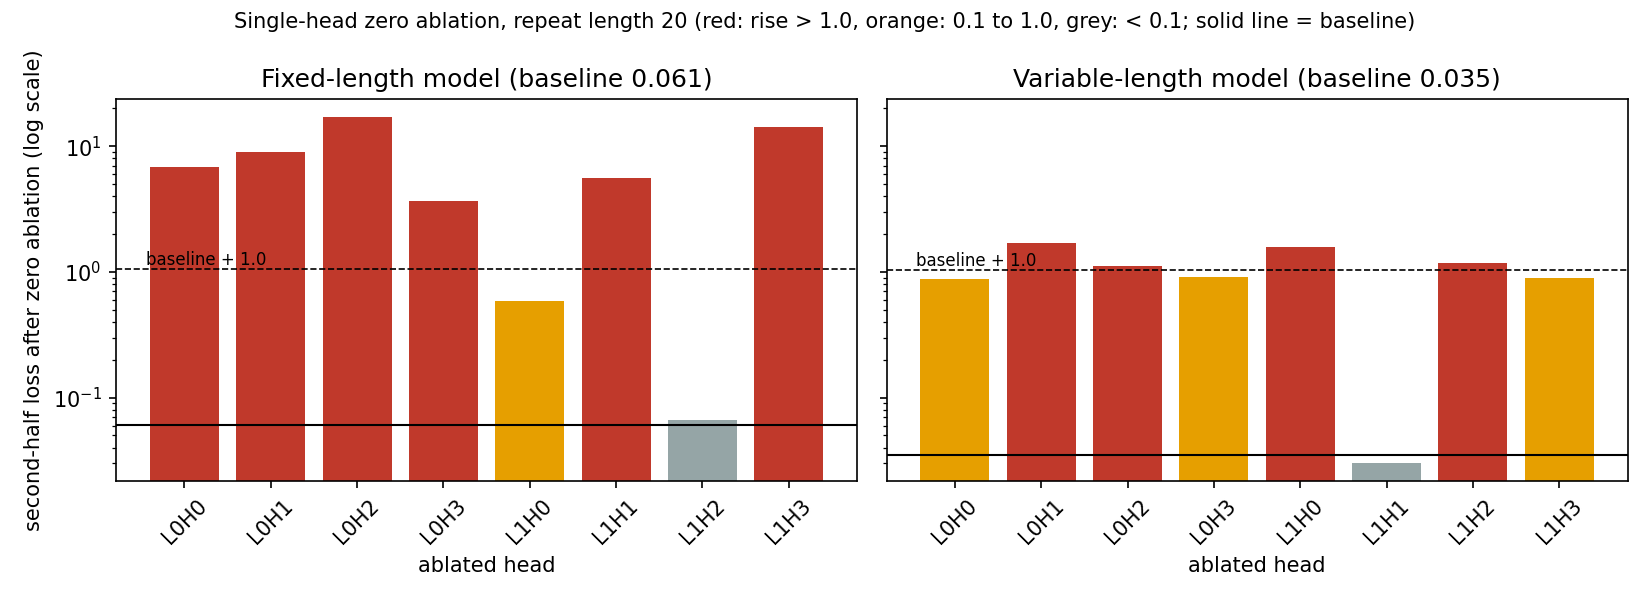
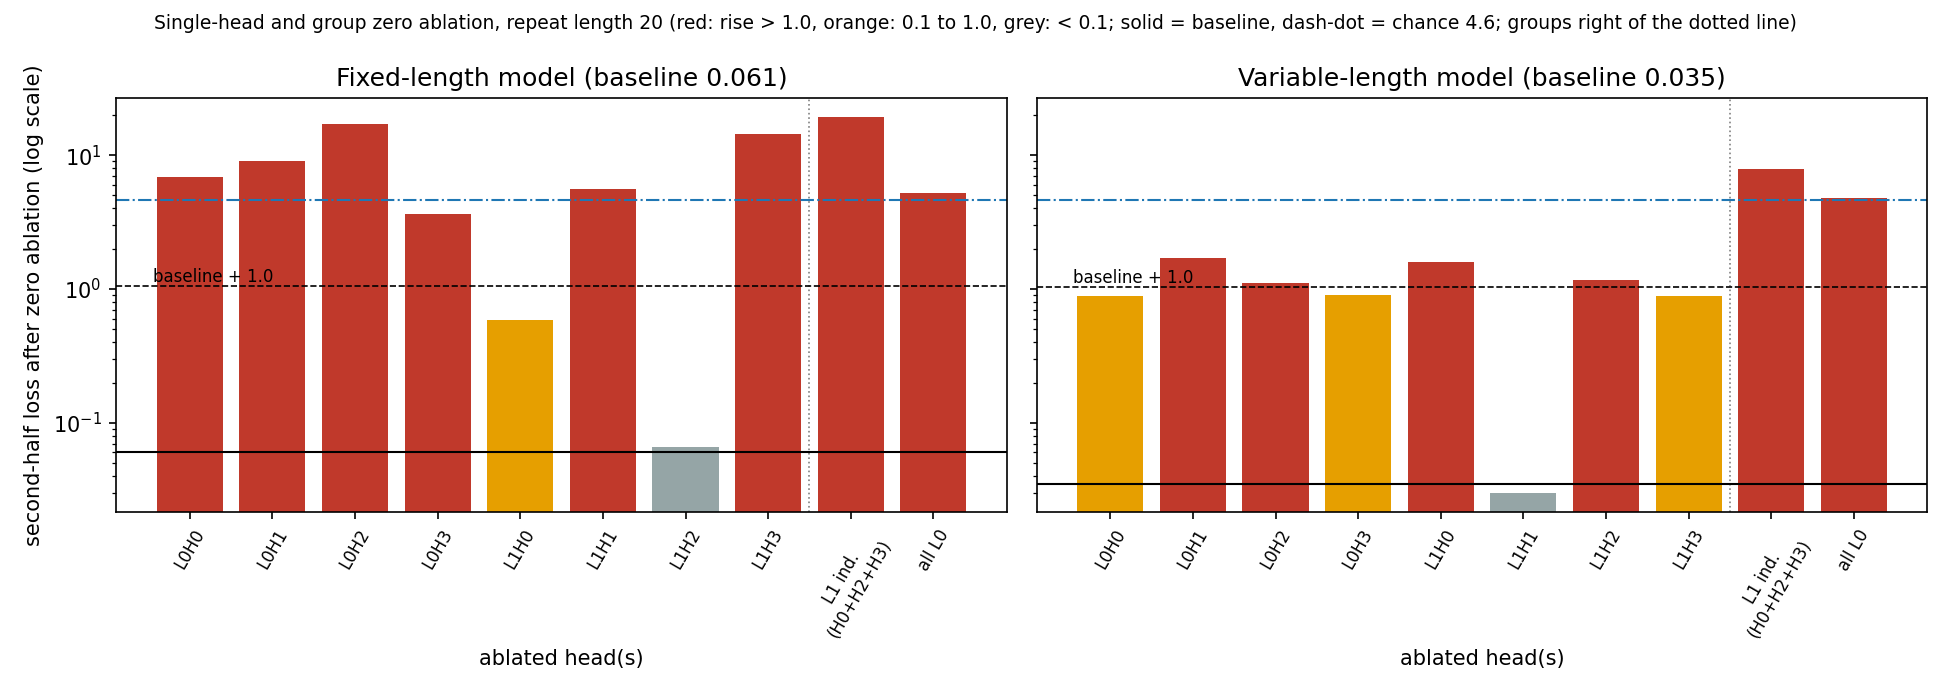
group ablation added

diff --git a/part1_toy/ablation.py b/part1_toy/ablation.py
@@ -60,6 +60,10 @@ if __name__ == "__main__":
             for layer in range(cfg.n_layers)
             for head in range(cfg.n_heads)
         ]
+        experiments += [
+            ("L1 induction", [(1, 0), (1, 2), (1, 3)]),
+            ("all L0", [(0, h) for h in range(cfg.n_heads)]),
+        ]
         for label, heads in experiments:
             set_seed(0)
             first, second = ablated_loss(model, heads, half_len, cfg.vocab_size)

diff --git a/info.md b/info.md
@@ -432,8 +432,44 @@ Fixed-length model (baseline: first 4.664, second 0.061)
 
 ![Single-head zero ablation, both models](figures/ablation_single_head.png)
 
-*Second-half loss after ablating each head (log scale). Solid line: baseline; dashed
-line: baseline + 1.0. This figure was drawn from the numbers in the tables above.*
+*Second-half loss after ablating each head, and the two groups (right of the dotted
+line), log scale. Solid line: baseline; dashed: baseline + 1.0; dash-dot: chance
+(ln 100 = 4.6). Drawn from the numbers in the tables, not from a script in the repo.*
+
+**Group ablation** (same sweep, two extra experiments: `L1 induction` = L1H0 + L1H2
++ L1H3, the three heads with the induction stripe, and `all L0` = all four layer-0
+heads). Outcomes planned before the run: near 4.6 = those heads are the whole copying
+mechanism; much lower = the circuit is larger; roughly the sum of the single rises
+(about 3.5) = no redundancy.
+
+| Model | Ablated | First-half loss | Second-half loss |
+|---|---|---|---|
+| Variable | baseline | 4.725 | 0.035 |
+| Variable | L1 induction (H0+H2+H3) | 9.994 | 7.943 |
+| Variable | all L0 | 4.890 | 4.799 |
+| Fixed | baseline | 4.664 | 0.061 |
+| Fixed | L1 induction (H0+H2+H3) | 48.917 | 19.334 |
+| Fixed | all L0 | 4.937 | 5.183 |
+
+- *`all L0` gives a clean result in both models.* Second-half loss goes to about
+  chance (4.8 and 5.2) and the first-half loss stays at its normal 4.9: the model
+  becomes uninformed but not broken. Without layer 0 the copying is gone, in the
+  variable model and in the fixed one. This supports the layer-level picture (layer 1
+  needs what layer 0 writes) without telling us what each layer-0 head contributes.
+- *`L1 induction` fell outside the planned outcomes.* The variable model's second-half
+  loss is 7.9, above chance, and the first-half loss rose from 4.7 to 10.0. Losing
+  information cannot push the loss above chance; this is the off-distribution damage
+  again (the fixed model: 48.9 and 19.3). So this number does not show that the three
+  heads are "the whole mechanism". It is also clearly more than the sum of the single
+  rises (about 3.5), which is the pattern redundancy predicts (each head's loss is
+  partly covered by the others), but we cannot separate that from the artifact.
+- *Single-head vs layer-wide in the fixed model.* Zeroing L0H2 alone gives 17.1, but
+  zeroing all of layer 0 gives only 5.2. Removing more made things better, which would
+  be impossible if the loss measured how much a head matters. A single zeroed head
+  leaves a partially wrong residual stream that layer 1 mishandles; removing the whole
+  layer leaves only the embeddings, which layer 1 can still read. This is the clearest
+  evidence in the project so far that zero ablation measures damage as well as
+  importance.
 
 **Reading the results.**
 - *Variable-length model.* Every layer-0 head and the three induction heads (L1H0,
@@ -455,10 +491,11 @@ line: baseline + 1.0. This figure was drawn from the numbers in the tables above
   hurts or does not hurt on this task". It does not show that a head implements a
   given function, or that the listed heads form the complete circuit.
 
-**Next.** Group ablation of the three induction heads together (the loss near 4.6 would
-mean they are the whole copying mechanism, much lower would mean the circuit is
-larger); mean ablation to test the off-distribution artifact; then direct logit
-attribution and activation patching.
+**Next.** Mean ablation (replace the head output with its average over data instead of
+zero) for the same single and group experiments: if the large first-half losses and
+the fixed model's L0H2 anomaly shrink, they were artifacts. Then direct logit
+attribution and activation patching, which measure contribution without the
+off-distribution problem.
 
 ---
 
